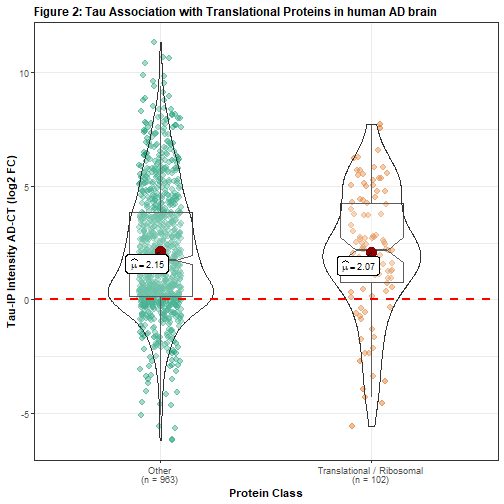
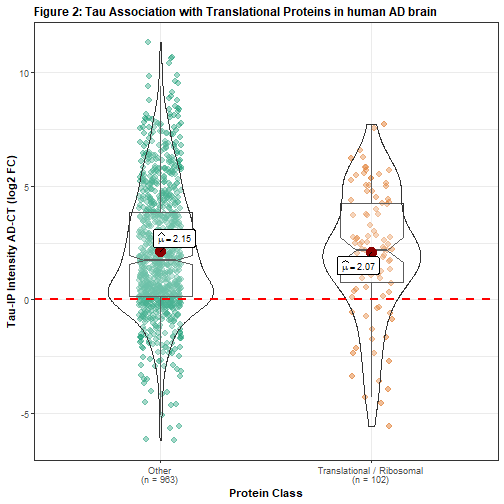
fixed {{ -> { { issues for md reading math

diff --git a/_posts/Tau-RP-Structure.md b/_posts/Tau-RP-Structure.md
@@ -8,9 +8,7 @@ output:
 indent: no
 ---
 
-```{r setup, include=FALSE}
-knitr::opts_chunk$set(echo = TRUE)
-```
+
 
 ## Introduction
 This code demonstrates the relationship between human ribosomal protein (RP) position within the ribosome and association with the microtubule associated protein (MAP) tau. Recent studies have illustrated the role of tau in (dys)regulating RNA metabolism and protein synthesis (Koren et al., 2020), but little is known about why and how tau associates with RPs. To evaluate one potential guiding principle for tau associating with RPs, we can evaluate the structural position (internal or external) of any specific RP by the Interface Index ($II$). The $II$ measures the number of amino acids (AA) an RP interfaces water and rRNA, suggesting an internal and external position, respectively (Natchiar et al., 2017, Shigeoka et al., 2019).
@@ -23,54 +21,13 @@ We can couple the $II$ of any specific RP to its association with tau based on i
 ## Most RPs are external, but a defined core of internal RPs exist.
 Internal RP proteins have more AA interfacing with rRNA than water resulting in a higher Interface Index. A common cutoff for RP structural position is 0.60 (Shigeoka et al., 2019). Plotting for the relative frequency of RP interface indices (**Fig. 1**) reveals most RPs are external rather than internal, but roughly 20% of RPs reside internally.
 <p align="center">
-```{r echo=FALSE, warning = FALSE, error = FALSE, message=FALSE, fig.align = 'center'}
-#Initializing data and packages
-library(ggplot2)
-library(dplyr)
-library(ggstatsplot)
-library(cowplot)
-setwd("D:/GitHub/Comp-bio-projects/Tau-Ribosome Association")
-options(scipen = 999) #Turn off sci-notation
-
-rpf = 'RP.full.csv'
-rp.full = as.data.frame(read.csv(rpf, as.is=TRUE,header=TRUE,sep=',', check.names=FALSE, fileEncoding="UTF-8-BOM"))
-colnames(rp.full)[1] = 'Symbol'
-
-p1 = ggplot(data = rp.full) + geom_histogram(aes(x = Interface, y = stat(count) / sum(count)), binwidth = .05) + xlab("Interface Index of RPs") + ggtitle("Figure 1: Relative frequency of human RP Interface Index") +
-  ylab("Relative Frequency (%)") + geom_vline(xintercept = 0.60, color = "red", linetype = "dashed", size = 2) + scale_x_continuous(limits = c(0, 1)) +
-  scale_y_continuous(limits = c(0, .15))
-
-p1
-```
+<img src="/figs/Tau-RP-Structure/unnamed-chunk-1-1.png" title="testing" alt="testing" style="display: block; margin: auto;" />
 </p>
 ## Tau interactome data from human brain shows high RP association
 
 The most robust investigation of the tau interactome was recently published (Hsieh et al., 2019). This study used label free quantification mass spectrometry (LFQ MS) to investigate the tau interactome when immunoprecipitated from human postmortem brain tissue. Similar to other studies in models of tauopathy, Hsieh et al noted that tau associates with many RP and translational proteins and AD disease status correlates with an enhanced tau-RP association (**Fig. 2**). Notably, however, not all RPs were found due to limitations in MS depth, precluding analysis on roughly half of all RPs.
 <p align="center">
-```{r echo=FALSE, warning = FALSE, error = FALSE, message=FALSE, fig.align = 'center'}
-setwd("D:/GitHub/Comp-bio-projects/Tau-Ribosome Association")
-
-h19f = "Hsieh2019.csv"
-h19 = as.data.frame(read.csv(h19f, as.is=TRUE,header=TRUE,sep=',', check.names=FALSE, fileEncoding="UTF-8-BOM"))
-#h19 = as.data.frame(read.csv("D:/GitHub/Comp-bio-projects/Tau-Ribosome Association/Hsieh2019.csv", as.is=TRUE,header=TRUE,sep=',', check.names=FALSE, fileEncoding="UTF-8-BOM"))
-h19[is.na(h19)] <- "Other"
-h19$Translation[h19$Translation == "TRUE"] = "Translational / Ribosomal"
-
-p2 = ggstatsplot::ggbetweenstats(
-  data = h19,
-  x = Translation,
-  y = AD.CT.FC,
-  notch = TRUE,
-  mean.ci = FALSE,
-  outlier.tagging = FALSE,
-  xlab = "Protein Class",
-  ylab = "Tau-IP Intensity AD-CT (log2 FC)",
-  title = "Figure 2: Tau Association with Translational Proteins in human AD brain",
-  bf.message = FALSE,
-  results.subtitle = FALSE,
-) 
-p2 + geom_hline(yintercept = 0, color = "red", linetype = "dashed", size = 1)
-```
+<img src="/figs/Tau-RP-Structure/unnamed-chunk-2-1.png" title="testing" alt="testing" style="display: block; margin: auto;" />
 </p>
 ## RP association with tau is unrelated to position within the ribosome
 
@@ -85,141 +42,42 @@ Ribosomes function as molecular motors, coordinating over 100 different proteins
 If **(1)** is true, then tau would associate with mostly nuclear RPs and not favor any internal or external RP. If **(2)** is true, tau would likely favor nascent RPs, inhibiting translation of RPs would diminish at least part of tau-RP associations and not be bias to structural position in the ribosome. If **(3)** is true, tau-RP association would not require RNA based on known examples of extra-ribosomal RP function and similarly not be bias to RP position. If **(4)** is true, RP position would not correlate with tau association.
 
 More simply, RPs most often reside within the ribosome. Internal RPs have less AA available for surface association of tau, suggesting that tau might favor association with external RPs. To assess whether there is a tendency for tau to bind to RPs based on their structural position within the ribosome, the two sample Kolmogorov-Smirnov (two-sample K-S) test can be used to determine whether two distributions are independent of one another. Since a common cutoff for internal RPs is an Interface Index of 0.60, we can separate RPs based on that statistic. The two-sample K-S test can then be used to test whether the tau association of RPs is independent of their structural position in the ribosome:
-```{r echo=FALSE, warning = FALSE, error = FALSE, message=FALSE}
-setwd("D:/GitHub/Comp-bio-projects/Tau-Ribosome Association")
 
-ff = 'RP.Tau.csv'
-rp = as.data.frame(read.csv(ff, as.is=TRUE,header=TRUE,sep=',', check.names=FALSE, fileEncoding = "UTF-8-BOM"))
-
-rp.filt.in = rp %>% filter(Interface > .6)
-rp.filt.ex = rp %>% filter(Interface < .6)
-ks.test(rp.filt.in$CTmean, rp.filt.ex$CTmean)
-```
+{% highlight text %}
+## 
+## 	Two-sample Kolmogorov-Smirnov test
+## 
+## data:  rp.filt.in$CTmean and rp.filt.ex$CTmean
+## D = 0.38235, p-value = 0.2952
+## alternative hypothesis: two-sided
+{% endhighlight %}
 
 Since the *p* value of the two-sample K-S test > 0.05, tau-RP association grouped based on their ribosomal structural position (external, $II < 0.60$ and internal, $II > 0.60$) are not independent. This suggests that tau associates with RPs regardless of their position in ribosomes, at least in this basal state of control, non-demented patient brain samples (**Fig. 3A**). RP Interface Index and tau association can be further plotted for AD brain samples (**Fig. 3B**) and the change in tau-RP association from control (CT) to AD brain (**Fig. 3C**).
 
 First, the two-sample K-S test for tau-RP in AD:
-```{r echo=FALSE, warning = FALSE, error = FALSE, message=FALSE,  fig.align = 'center'}
-ks.test(rp.filt.in$ADmean, rp.filt.ex$ADmean)
-```
+
+{% highlight text %}
+## 
+## 	Two-sample Kolmogorov-Smirnov test
+## 
+## data:  rp.filt.in$ADmean and rp.filt.ex$ADmean
+## D = 0.32353, p-value = 0.5778
+## alternative hypothesis: two-sided
+{% endhighlight %}
 
 Next, the two-sample K-S test for tau-RP for the fold change in association between AD and CT samples:
-```{r echo=FALSE, warning = FALSE, error = FALSE, message=FALSE,  fig.align = 'center'}
-ks.test(rp.filt.in$AD.CT.FC, rp.filt.ex$AD.CT.FC)
-```
+
+{% highlight text %}
+## 
+## 	Two-sample Kolmogorov-Smirnov test
+## 
+## data:  rp.filt.in$AD.CT.FC and rp.filt.ex$AD.CT.FC
+## D = 0.38235, p-value = 0.2952
+## alternative hypothesis: two-sided
+{% endhighlight %}
 Both two-sample K-S tests reveal no significant difference between the 0.60 $II$ cutoff between internal and external RPs. This minimal association is more easily interpreted when plotted:
 <p align="center">
-```{r echo=FALSE, warning = FALSE, error = FALSE, message=FALSE,  fig.align = 'center'}
-title = ggdraw() +
-  draw_label(
-    "Figure 3: RP Interface Index and tau association in CT and AD brain",
-    fontface = 'bold',
-    x = 0,
-    hjust = 0
-  ) +
-  theme(
-    # add margin on the left of the drawing canvas,
-    # so title is aligned with left edge of first plot
-    plot.margin = margin(0, 0, 0, 7)
-  )
-
-p3a = ggstatsplot::ggscatterstats(
-  data = rp,
-  x = Interface,
-  y = CTmean,
-  type = "np",
-  xlab = "RP Interface Index",
-  ylab = "Tau-IP Intensity in Control brain",
-  label.var = Symbol,
-  label.expression = (Symbol == "RPS7" | Symbol == "RPL29"),
-  results.subtitle = FALSE,
-  subtitle = bquote("p = 0.180, Spearman" ~ rho ~ "= -0.21"),
-  marginal = FALSE,
-  conf.level = 0,
-  title = "Control brain",
-  #caption = "RP interface data from Natchiar et al., 2017, Shigeoka et al., 2019\nTau-IP data from Hsieh et al., 2019",
-  bf.message = FALSE,
-  centrality.parameter = "none"
-)
-p3a = p3a + geom_vline(xintercept = 0.60, color = "red", linetype = "dashed", size = 1)
-
-p3b = ggstatsplot::ggscatterstats(
-  data = rp,
-  x = Interface,
-  y = ADmean,
-  type = "np",
-  xlab = "RP Interface Index",
-  ylab = "Tau-IP Intensity in AD",
-  label.var = Symbol,
-  label.expression = (Symbol == "RPS7" | Symbol == "RPL29"),
-  results.subtitle = FALSE,
-  subtitle = bquote("p = 0.750, Spearman" ~ rho ~"= 0.05"),
-  marginal = FALSE,
-  conf.level = 0,
-  title = "AD Brain",
-  bf.message = FALSE,
-  centrality.parameter = "none"
-)
-p3b = p3b + geom_vline(xintercept = 0.60, color = "red", linetype = "dashed", size = 1)
-
-p3c = ggstatsplot::ggscatterstats(
-  data = rp,
-  x = Interface,
-  y = AD.CT.FC,
-  type = "np",
-  xlab = "RP Interface Index",
-  ylab = "Tau-IP Intensity AD-CT (log2 FC)",
-  label.var = Symbol,
-  label.expression = (Symbol == "RPS7" | Symbol == "RPL29"),
-  results.subtitle = FALSE,
-  subtitle = bquote("p = 0.538, Spearman" ~ rho ~ " = 0.10"),
-  marginal = FALSE,
-  conf.level = 0,
-  title = "AD-CT Fold Change",
-  bf.message = FALSE,
-  centrality.parameter = "none"
-)
-p3c = p3c + 
-  geom_vline(xintercept = 0.60, color = "red", linetype = "dashed", size = 1)
-
-pn3a = plot_grid(
-  p3a, NULL,
-  labels = c("A", ""),
-  nrow = 1,
-  ncol = 2,
-  rel_widths = c(2, 0.05)
-)
-
-pn3b = plot_grid(
-  p3b, NULL,
-  labels = c("B", ""),
-  nrow = 1,
-  ncol = 2,
-  rel_widths = c(2, 0.05)
-)
-
-pn3c = plot_grid(
-  p3c, NULL,
-  labels = c("C", ""),
-  nrow = 1,
-  ncol = 2,
-  rel_widths = c(2, 0.05)
-)
-
-plot_row = plot_grid(
-  pn3a, pn3b, pn3c,
-  axis = tblr,
-  nrow = 1,
-  ncol = 3,
-  
-  rel_widths = c(2, 2, 2))
-
-plot_grid(
-  title, plot_row,
-  ncol = 1, 
-  rel_heights = c(0.12, 2)
-)
-```
+<img src="/figs/Tau-RP-Structure/unnamed-chunk-6-1.png" title="testing" alt="testing" style="display: block; margin: auto;" />
 </p>
 However, the two-sample K-S test is only as robust as the distinction between groups. In this biological case, the 0.60 $II$ cutoff might not be a strong divider. Instead, the distribution of RP $II$ to tau-RP association can be linearly regressed and tested by non-parametric Spearman's test for a significant linear correlation. Overall, CT, AD, and AD-CT fold change of tau-RP association do not significantly associate with RP structural position within the ribosome. 
 
